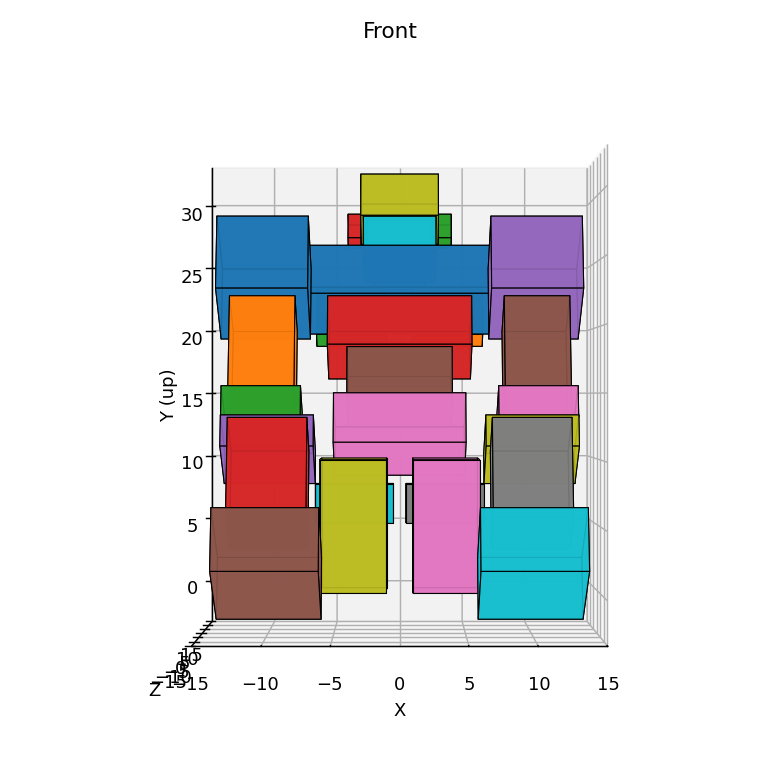
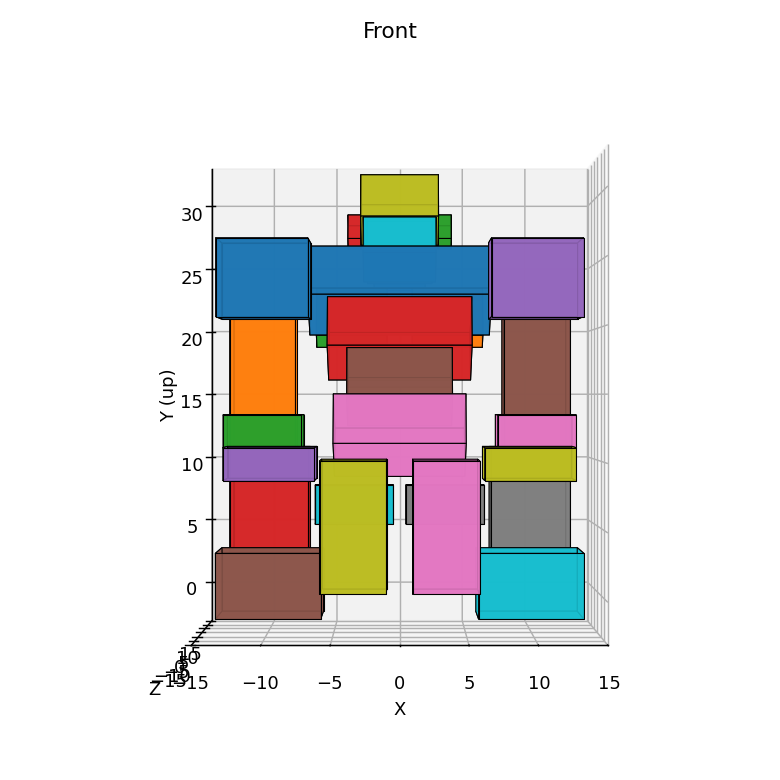
golem_boss: counter-rotate shoulders (-HUNCH_DEG) so arms hang straight down instead of swinging backward with the torso hunch

diff --git a/build_bbmodel.py b/build_bbmodel.py
@@ -229,16 +229,24 @@ demo_mob = [
 # ---------------------------------------------------------------------------
 # Model 2: golem_boss - tanque musculoso, brazos largos y articulados, gorila
 # ---------------------------------------------------------------------------
+HUNCH_DEG = 22  # forward lean of the torso (and, rigidly, head) around the hips
+
 def arm_chain(side):
     """side = 1 (left, +x) or -1 (right, -x). Builds shoulder -> upper_arm -> forearm -> fist.
     Total span (top of shoulder to bottom of fist) = 29 units, kept under the body's
     total height (32 units) so the arms read as long/ape-like without exceeding the torso+legs+head.
+
+    The shoulder counter-rotates by -HUNCH_DEG: since it's nested under the torso (which leans
+    forward by HUNCH_DEG), without this the whole arm would inherit that tilt rigidly and swing
+    backward instead of hanging down. Canceling it here keeps the arm hanging straight down (as
+    originally designed) from the new, forward-shifted shoulder attachment point.
     """
     s = side
     tag = "left" if s > 0 else "right"
     return {
         "name": f"{tag}_shoulder",
         "origin": [s * 10.5, 25, 0],
+        "rotation": [-HUNCH_DEG, 0, 0],
         "cubes": [{"from": [s * 7, 22, -5], "to": [s * 14, 28, 5]}],  # wide gorilla shoulder pad
         "children": [{
             "name": f"{tag}_upper_arm",
@@ -269,7 +277,7 @@ golem_boss = [
     {
         "name": "torso",
         "origin": [0, 10, 0],
-        "rotation": [22, 0, 0],  # forward hunch, pivoting at the hips/waist (this part's origin)
+        "rotation": [HUNCH_DEG, 0, 0],  # forward hunch, pivoting at the hips/waist (this part's origin)
         "cubes": [
             # Torso built as stacked segments of varying width for a gorilla hourglass-ish
             # silhouette: broad chest/shoulders -> tapered waist -> hips flare back out.
